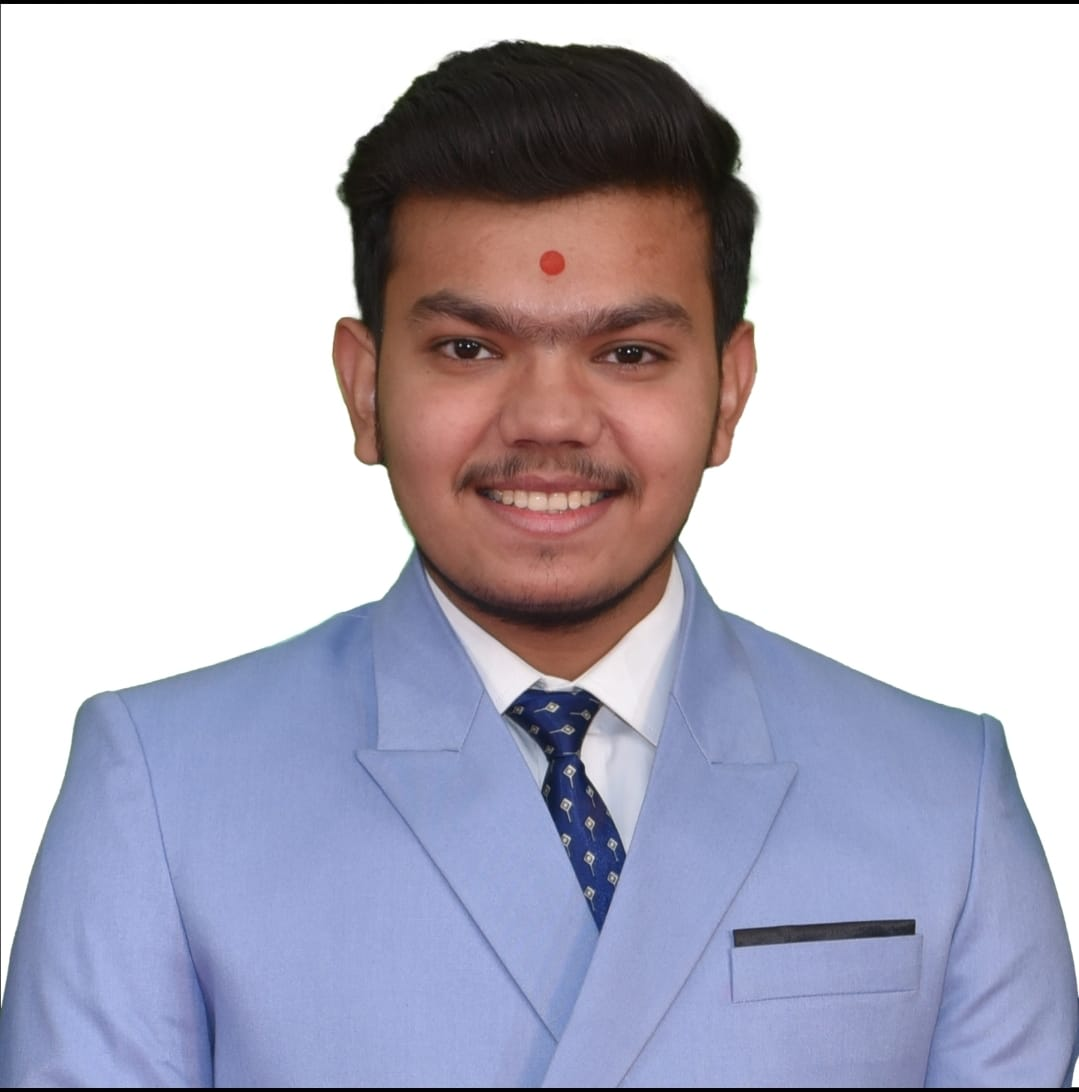
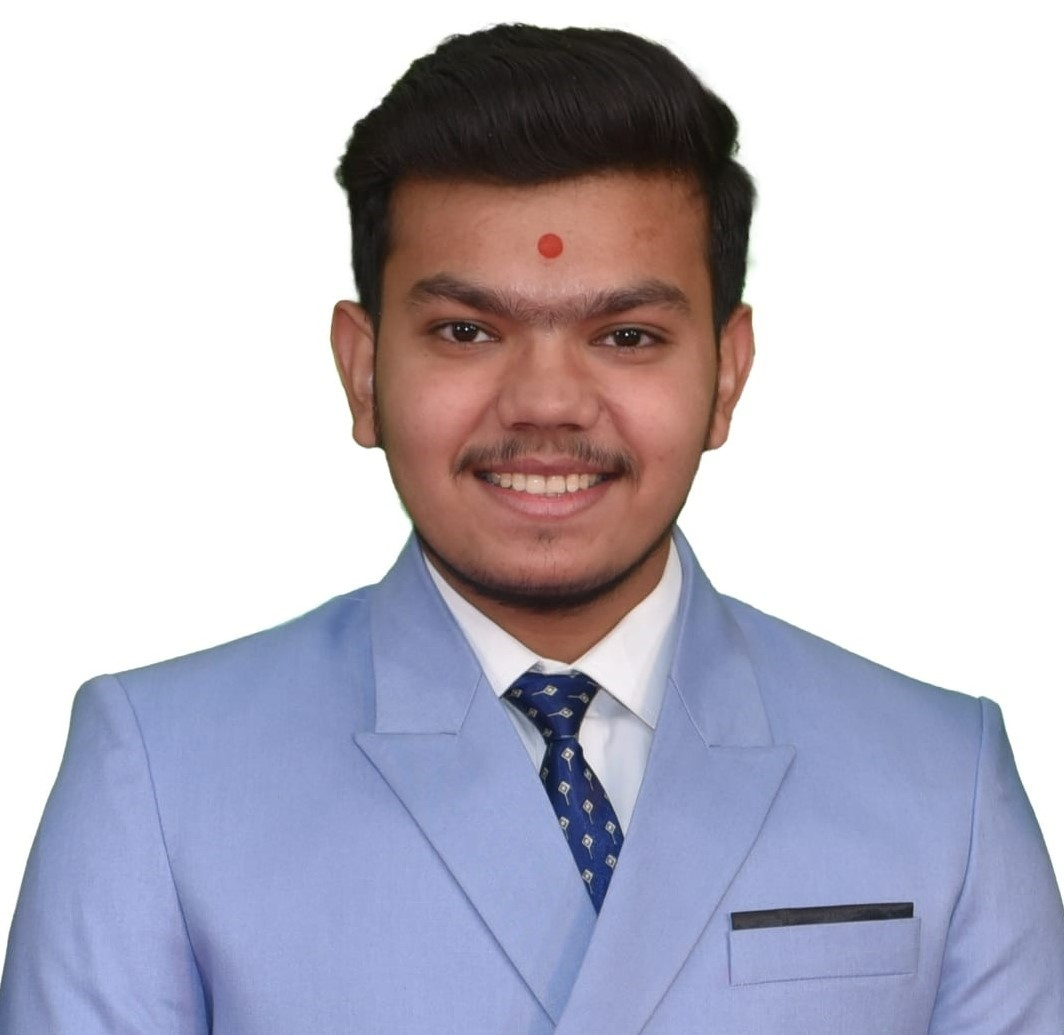
completed our team part as per requirements

diff --git a/index.html b/index.html
@@ -42,7 +42,6 @@
         <li><a class="navbar-link" href="#about">About Us</a></li>
         <li><a class="navbar-link" href="#">Events</a></li>
         <li><a class="navbar-link" href="#team">Team</a></li>
-        <li><a class="navbar-link" href="#">Social Media</a></li>
         <li id="contact"><a class="navbar-link" href="#">Contact Us</a></li>
       </ul>
     </nav>
@@ -87,7 +86,7 @@
               <ul class="social">
                   <li><a href="#" class="fa fa-facebook"></a></li>
                   <li><a href="#" class="fa fa-twitter"></a></li>
-                  <li><a href="#" class="fa fa-google-plus"></a></li>
+                  
                   <li><a href="#" class="fa fa-linkedin"></a></li>
               </ul>
           </div>
@@ -102,7 +101,7 @@
                   <ul class="social">
                       <li><a href="#" class="fa fa-facebook"></a></li>
                       <li><a href="#" class="fa fa-twitter"></a></li>
-                      <li><a href="#" class="fa fa-google-plus"></a></li>
+                      
                       <li><a href="#" class="fa fa-linkedin"></a></li>
                   </ul>
               </div>
@@ -118,7 +117,7 @@
                   <ul class="social">
                       <li><a href="#" class="fa fa-facebook"></a></li>
                       <li><a href="#" class="fa fa-twitter"></a></li>
-                      <li><a href="#" class="fa fa-google-plus"></a></li>
+                      
                       <li><a href="#" class="fa fa-linkedin"></a></li>
                   </ul>
               </div>
@@ -134,7 +133,7 @@
                   <ul class="social">
                       <li><a href="#" class="fa fa-facebook"></a></li>
                       <li><a href="#" class="fa fa-twitter"></a></li>
-                      <li><a href="#" class="fa fa-google-plus"></a></li>
+                      
                       <li><a href="#" class="fa fa-linkedin"></a></li>
                   </ul>
               </div>
@@ -153,7 +152,7 @@
               <ul class="social">
                   <li><a href="#" class="fa fa-facebook"></a></li>
                   <li><a href="#" class="fa fa-twitter"></a></li>
-                  <li><a href="#" class="fa fa-google-plus"></a></li>
+                  
                   <li><a href="#" class="fa fa-linkedin"></a></li>
               </ul>
           </div>
@@ -169,7 +168,7 @@
                   <ul class="social">
                       <li><a href="#" class="fa fa-facebook"></a></li>
                       <li><a href="#" class="fa fa-twitter"></a></li>
-                      <li><a href="#" class="fa fa-google-plus"></a></li>
+                      
                       <li><a href="#" class="fa fa-linkedin"></a></li>
                   </ul>
               </div>
@@ -185,7 +184,7 @@
                   <ul class="social">
                       <li><a href="#" class="fa fa-facebook"></a></li>
                       <li><a href="#" class="fa fa-twitter"></a></li>
-                      <li><a href="#" class="fa fa-google-plus"></a></li>
+                      
                       <li><a href="#" class="fa fa-linkedin"></a></li>
                   </ul>
               </div>
@@ -200,7 +199,7 @@
                   <ul class="social">
                       <li><a href="#" class="fa fa-facebook"></a></li>
                       <li><a href="#" class="fa fa-twitter"></a></li>
-                      <li><a href="#" class="fa fa-google-plus"></a></li>
+                      
                       <li><a href="#" class="fa fa-linkedin"></a></li>
                   </ul>
               </div>
@@ -218,7 +217,7 @@
               <ul class="social">
                   <li><a href="#" class="fa fa-facebook"></a></li>
                   <li><a href="#" class="fa fa-twitter"></a></li>
-                  <li><a href="#" class="fa fa-google-plus"></a></li>
+                  
                   <li><a href="#" class="fa fa-linkedin"></a></li>
               </ul>
           </div>
@@ -234,7 +233,7 @@
                   <ul class="social">
                       <li><a href="#" class="fa fa-facebook"></a></li>
                       <li><a href="#" class="fa fa-twitter"></a></li>
-                      <li><a href="#" class="fa fa-google-plus"></a></li>
+                      
                       <li><a href="#" class="fa fa-linkedin"></a></li>
                   </ul>
               </div>
@@ -250,7 +249,7 @@
                   <ul class="social">
                       <li><a href="#" class="fa fa-facebook"></a></li>
                       <li><a href="#" class="fa fa-twitter"></a></li>
-                      <li><a href="#" class="fa fa-google-plus"></a></li>
+                      
                       <li><a href="#" class="fa fa-linkedin"></a></li>
                   </ul>
               </div>
@@ -265,7 +264,7 @@
                   <ul class="social">
                       <li><a href="#" class="fa fa-facebook"></a></li>
                       <li><a href="#" class="fa fa-twitter"></a></li>
-                      <li><a href="#" class="fa fa-google-plus"></a></li>
+                      
                       <li><a href="#" class="fa fa-linkedin"></a></li>
                   </ul>
               </div>

diff --git a/style.css b/style.css
@@ -345,7 +345,7 @@ margin-bottom: 9px;
     background: #fff;
     border-radius: 15px;
     text-align: center;
-    margin:12px;
+    margin:20px;
 }
 .our-team .pic{
     display: inline-block;
@@ -353,17 +353,31 @@ margin-bottom: 9px;
     height: 100%;
     background: #fff;
     padding: 10px;
-    margin-bottom: 25px;
+    margin-bottom: 5px;
     transition: all 0.5s ease 0s;
+
+    /* background: #318D44; */
+    border-radius: 10%;
+    /* transform: translateY(-35px); */
 }
-.our-team:hover .pic{
+/* .our-team:hover .pic{
     background: #318D44;
-    border-radius: 50%;
-}
+    border-radius: 10%;
+
+    transform: translateY(-35px);
+} */
+ /* .our-team:hover img{
+  background: #318D44;
+ border-radius: 10%;
+
+ transform: translateY(-35px);
+} */
 .pic img{
-    width: 100%;
-    height: 180px;
-    border-radius: 50%;
+  width: 100%;
+  height: 250px;
+  border-radius: 10%;
+  transform: translateY(-55px);
+  padding:5px;
 }
 .our-team .title{
     display: block;
@@ -372,6 +386,7 @@ margin-bottom: 9px;
     color: #2e282a;
     text-transform: uppercase;
     margin: 0 0 7px 0;
+    margin-top: -42px;
 }
 .our-team .post{
     display: block;
@@ -417,13 +432,13 @@ margin-bottom: 9px;
   display: flex;
   flex-direction: column;
   position: fixed;
-  right: 1%;
-  bottom: 50%;
+  left: 1%;
+  bottom: 40%;
 }
 
 .socicon {
-  width: 4rem;
-  height: 4rem;
+  width: 6rem;
+  height: 6rem;
   
 }
 
